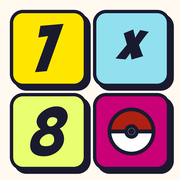
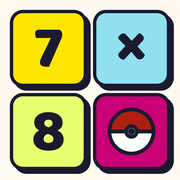
Set digits in Baloo 2, not Bangers
Bangers draws 1 and 7 as nearly the same glyph. That is fine on a comic
cover and wrong in a times-table app, where level 9 distractors sit one
apart and misreading 21 as 27 ends a round for the wrong reason.

Words (title, GO, SO CLOSE, buttons) stay in Bangers so the AKEE identity
is unchanged. Baloo 2 was already loaded, so this costs no extra download.
The app icon is regenerated with the same numeral face.

diff --git a/index.html b/index.html
@@ -20,6 +20,7 @@
     --lime:#E9FF70; --magenta:#C90076; --red:#AE2012;
     --teal:#005F73; --indigo:#1C0060;
     --display:"Bangers","Impact",sans-serif;
+    --num:"Baloo 2","Avenir Next",sans-serif;
     --body:"Baloo 2","Avenir Next",sans-serif;
     color-scheme: light;
   }
@@ -48,6 +49,7 @@
        box-shadow:4px 4px 0 var(--ink);background:var(--lime);padding:10px 26px;font-size:clamp(18px,2.6vw,26px)}
   .btn:active{transform:translate(4px,4px);box-shadow:none}
   .btn.plain{background:var(--paper)}
+  .num{font-family:var(--num)}
   .btn.sm{font-size:16px;padding:5px 13px;border-width:2px;border-radius:11px;box-shadow:3px 3px 0 var(--ink)}
 
   /* --- home --- */
@@ -56,7 +58,7 @@
   .stat{border:3px solid var(--ink);border-radius:14px;box-shadow:4px 4px 0 var(--ink);
         padding:9px 22px;text-align:center;min-width:132px}
   .stat b{display:block;font-size:11px;letter-spacing:1px;font-weight:800;opacity:.75}
-  .stat i{display:block;font-family:var(--display);font-size:32px;font-style:normal;letter-spacing:1px}
+  .stat i{display:block;font-family:var(--num);font-weight:800;font-size:28px;font-style:normal;letter-spacing:0}
   #go{background:var(--lime);border:3px solid var(--ink);border-radius:28px;box-shadow:7px 7px 0 var(--ink);
       padding:22px 74px;text-align:center}
   #go span{display:block;font-family:var(--display);font-size:clamp(54px,11vw,84px);letter-spacing:4px;line-height:1}
@@ -70,13 +72,13 @@
   #pips{display:flex;gap:4px;flex:1}
   .pip{flex:1;height:16px;border:2px solid var(--ink);border-radius:5px;background:var(--paper)}
   .pip.on{background:var(--lime)} .pip.now{background:var(--orange)}
-  #lvl{font-family:var(--display);font-size:22px;letter-spacing:1px;white-space:nowrap}
+  #lvl{font-family:var(--num);font-weight:800;font-size:19px;letter-spacing:0;white-space:nowrap}
   #shield{font-size:22px;color:var(--teal)} #shield.off{opacity:.2}
   #play .body{flex:1;display:flex;flex-direction:column;justify-content:center;gap:clamp(14px,3vh,30px);padding:0 20px;min-height:0}
-  #q{font-family:var(--display);text-align:center;letter-spacing:3px;line-height:1;
-     font-size:clamp(46px,12vw,110px);text-shadow:4px 4px 0 var(--sky)}
+  #q{font-family:var(--num);font-weight:800;text-align:center;letter-spacing:1px;line-height:1.05;
+     font-size:clamp(42px,10.5vw,96px);text-shadow:4px 4px 0 var(--sky)}
   #answers{display:grid;gap:clamp(8px,1.6vw,14px);justify-content:center}
-  .ans{font-family:var(--display);letter-spacing:1.5px;font-size:clamp(26px,5vw,54px);
+  .ans{font-family:var(--num);font-weight:800;letter-spacing:0;font-size:clamp(24px,4.4vw,48px);
        border:3px solid var(--ink);border-radius:18px;box-shadow:5px 5px 0 var(--ink);
        min-height:clamp(74px,13vh,124px);display:grid;place-items:center}
   .ans:active{transform:translate(5px,5px);box-shadow:none}
@@ -89,8 +91,9 @@
   #overlay.on{display:flex}
   .eyebrow{font-size:12px;font-weight:800;letter-spacing:2px;opacity:.65}
   .bighead{font-family:var(--display);font-size:clamp(38px,8vw,64px);letter-spacing:2px;line-height:1}
+  .bighead.num{font-family:var(--num);font-weight:800;letter-spacing:0;font-size:clamp(34px,7vw,58px)}
   .teach{border:3px solid var(--ink);border-radius:16px;box-shadow:4px 4px 0 var(--ink);background:var(--paper);
-         padding:12px 26px;font-family:var(--display);font-size:clamp(26px,5vw,42px);letter-spacing:1.5px}
+         padding:12px 26px;font-family:var(--num);font-weight:800;font-size:clamp(23px,4.4vw,38px);letter-spacing:0}
   .teach s{color:var(--red);text-decoration:none}
   .badge{border:2px solid var(--ink);border-radius:20px;padding:3px 14px;font-size:13px;font-weight:800;background:var(--yellow)}
   #gifFrame{border:3px solid var(--ink);border-radius:18px;box-shadow:5px 5px 0 var(--ink);
@@ -121,7 +124,7 @@
   .cellbox{width:22px;height:22px;border-radius:4px;border:1px solid rgba(26,26,46,.35);flex:none}
   .chips{display:flex;flex-wrap:wrap;gap:8px}
   .chip{border:2px solid var(--ink);border-radius:10px;box-shadow:3px 3px 0 var(--ink);padding:4px 11px;text-align:center;background:var(--paper)}
-  .chip b{display:block;font-family:var(--display);font-size:19px;letter-spacing:1px;font-weight:400}
+  .chip b{display:block;font-family:var(--num);font-size:18px;letter-spacing:0;font-weight:800}
   .chip i{font-style:normal;font-size:10px;font-weight:800;opacity:.7}
   .danger{background:var(--red);color:#fff}
   @media (prefers-reduced-motion:reduce){*{animation:none!important;transition:none!important}}
@@ -142,7 +145,7 @@
     <div id="shieldNote">◇ 3 more rounds for a shield</div>
   </div>
   <div class="foot">
-    <button class="btn sm plain" id="openTrophies">TROPHY CASE <span id="hTrophy">0/52</span></button>
+    <button class="btn sm plain" id="openTrophies">TROPHY CASE <span class="num" style="font-weight:800" id="hTrophy">0/52</span></button>
   </div>
 </section>
 
@@ -156,7 +159,7 @@
   <div class="bar">
     <button class="btn sm plain" data-home>‹ BACK</button>
     <span class="title" style="flex:1;font-size:30px">TROPHY CASE</span>
-    <span class="title" style="font-size:24px;color:var(--red);text-shadow:none" id="tCount">0/52</span>
+    <span class="num" style="font-size:22px;font-weight:800;color:var(--red)" id="tCount">0/52</span>
   </div>
   <div id="tgrid"></div>
 </section>

diff --git a/app.js b/app.js
@@ -264,7 +264,7 @@ function finish(cleared) {
     return
   }
   overlay(`<p class="eyebrow">${isRecord ? 'NEW RECORD · LEVEL ' + lvl.n : 'ROUND CLEARED'}</p>
-    <h2 class="bighead" style="color:${isRecord ? 'var(--magenta)' : 'var(--teal)'}">${fmt(total)}</h2>
+    <h2 class="bighead num" style="color:${isRecord ? 'var(--magenta)' : 'var(--teal)'}">${fmt(total)}</h2>
     ${trophy ? `<div id="gifFrame" class="on"><img alt="" src="trophies/${trophy.file}"></div>`
              : `<p>best is ${fmt(rec.byLevel[lvl.n]?.bestMs)}</p>`}
     ${reasons.map((r) => `<span class="badge">${r}</span>`).join(' ')}
